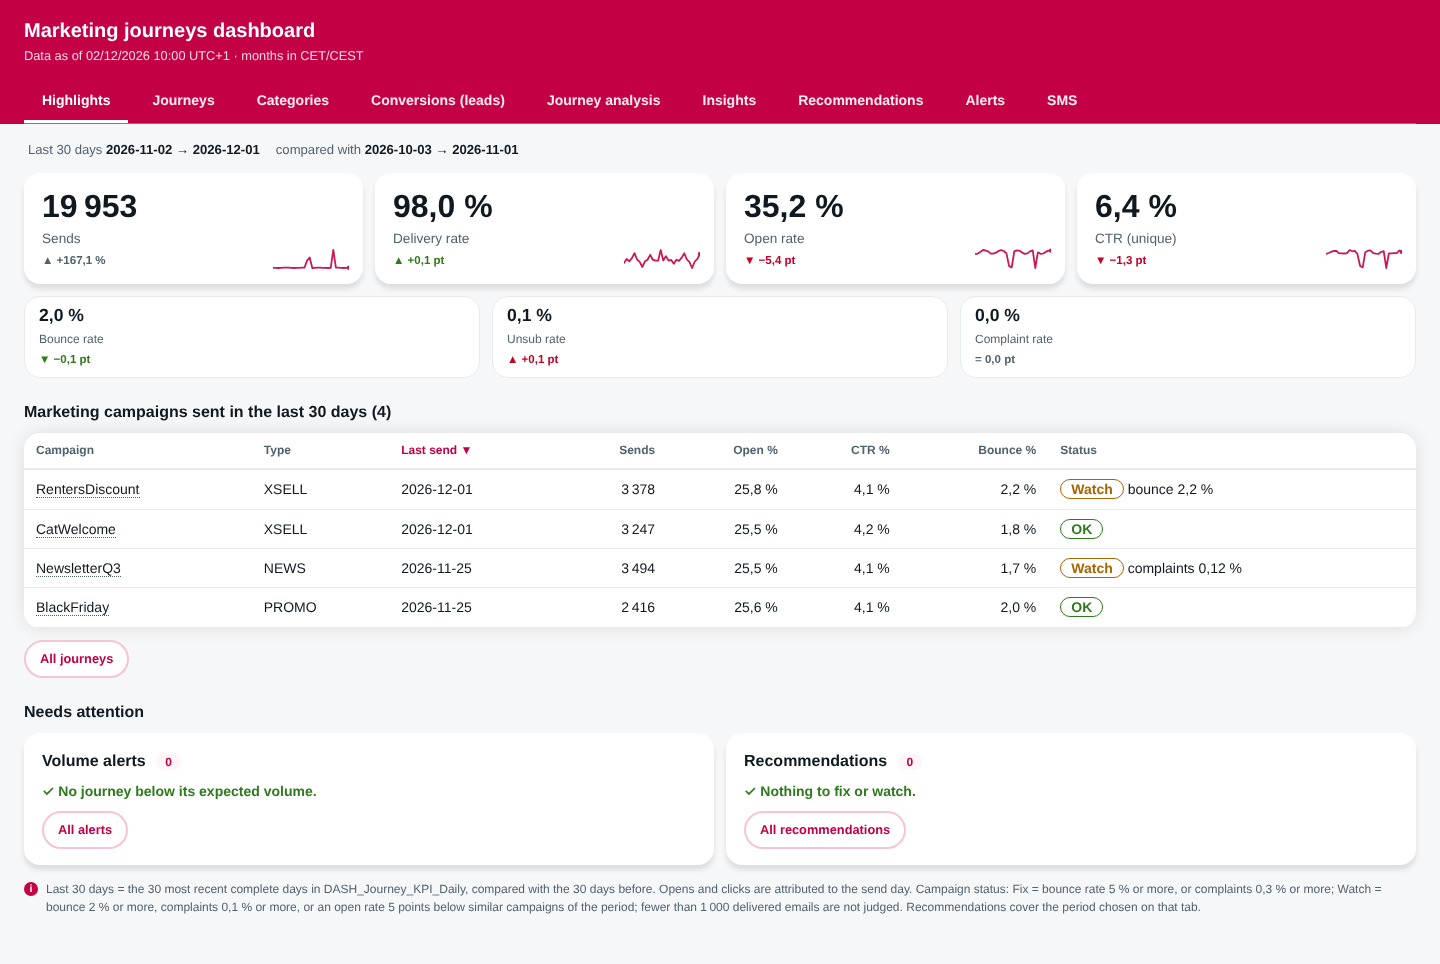
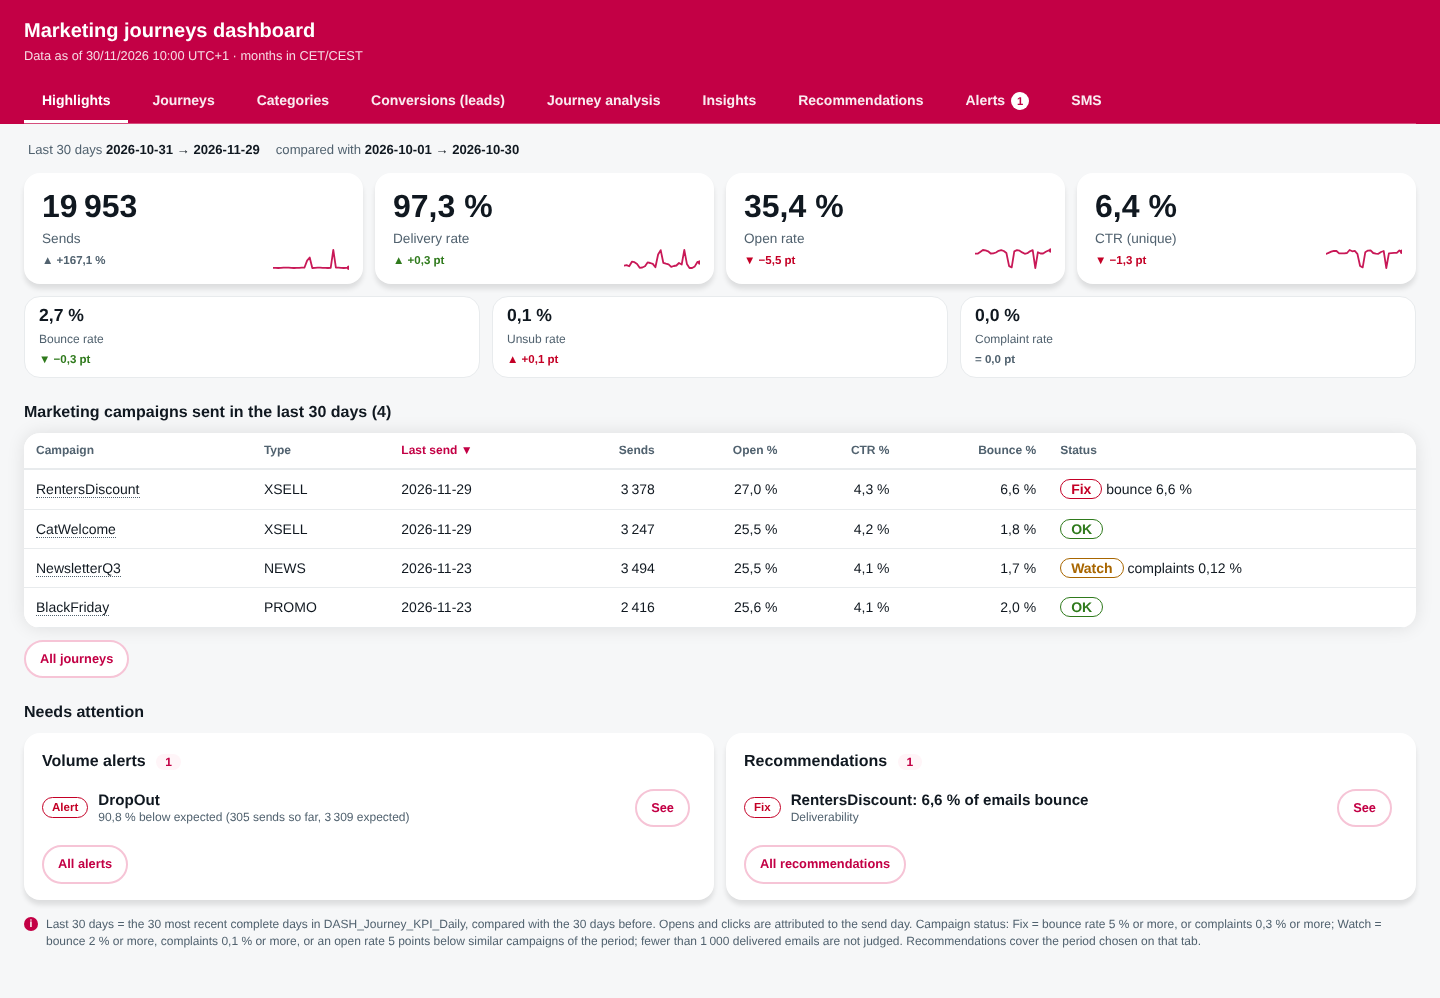
Screenshots: Highlights (light, dark, mobile), mobile filters panel, View menu; Needs attention list text size
Claude-Session: https://claude.ai/code/session_01WtzjzeTDomDiWbenzCQNQG

diff --git a/html/cloudpage_dashboard.html b/html/cloudpage_dashboard.html
@@ -280,7 +280,7 @@ tr.child:hover td{background:var(--pink-light)}
 .top .bar2{position:relative;overflow:visible}.top .bar2 i.mid{background:#d98a00}.top .bar2 i.hi{background:var(--red)}.top .bar2 .mk{position:absolute;top:-4px;width:2px;height:14px;background:var(--fg);opacity:.55}
 .cls{display:inline-flex;align-items:center;gap:4px;margin-right:8px;white-space:nowrap}.cls i{display:inline-block;width:14px;height:14px;border-radius:3px;border:1px solid rgba(16,24,32,.2)}
 .two{display:grid;grid-template-columns:repeat(auto-fit,minmax(380px,1fr));gap:12px;margin-bottom:16px}.two .card:hover{transform:none;border-color:transparent}.two h3{margin:0 0 8px;font-size:1rem}.two .n{font-size:.75rem;font-weight:600;padding:1px 9px;border-radius:12px;background:var(--pink-bg);color:var(--tx-red);margin-left:6px}
-.attn{list-style:none;margin:0 0 10px;padding:0}.attn li{display:grid;grid-template-columns:auto 1fr auto;gap:10px;align-items:center;padding:8px 0;border-top:1px solid var(--line)}.attn li:first-child{border-top:0}.attn small{display:block;color:var(--mute);font-size:.75rem;font-weight:400}.attn .sev{font-size:.72rem;font-weight:700;padding:1px 9px;border-radius:12px;border:1px solid currentColor;white-space:nowrap}
+.attn{list-style:none;margin:0 0 10px;padding:0}.attn li{display:grid;grid-template-columns:auto 1fr auto;gap:10px;align-items:center;padding:8px 0;border-top:1px solid var(--line)}.attn li:first-child{border-top:0}.attn b{display:block;font-size:.95rem;font-weight:600;line-height:1.25;margin:0}.attn small{display:block;color:var(--mute);font-size:.75rem;font-weight:400}.attn .sev{font-size:.72rem;font-weight:700;padding:1px 9px;border-radius:12px;border:1px solid currentColor;white-space:nowrap}
 .attn .sev.high{color:var(--err-text,#c40026)}.attn .sev.medium{color:#a86600}.attn .sev.info{color:#1f6a9c}.two p.ok{color:var(--ok-text);font-weight:600;margin:4px 0 10px}
 @media (prefers-color-scheme:dark){.attn .sev.medium{color:#f0b24a}.attn .sev.info{color:#6cb8ee}}
 .stt{font-weight:700;padding:1px 10px;border-radius:12px;border:1px solid var(--line);white-space:nowrap}.stt.fix{color:var(--err-text,#c40026);border-color:currentColor}.stt.watch{color:#a86600;border-color:currentColor}.stt.ok{color:var(--ok-text);border-color:currentColor}@media (prefers-color-scheme:dark){.stt.watch{color:#f0b24a}}
